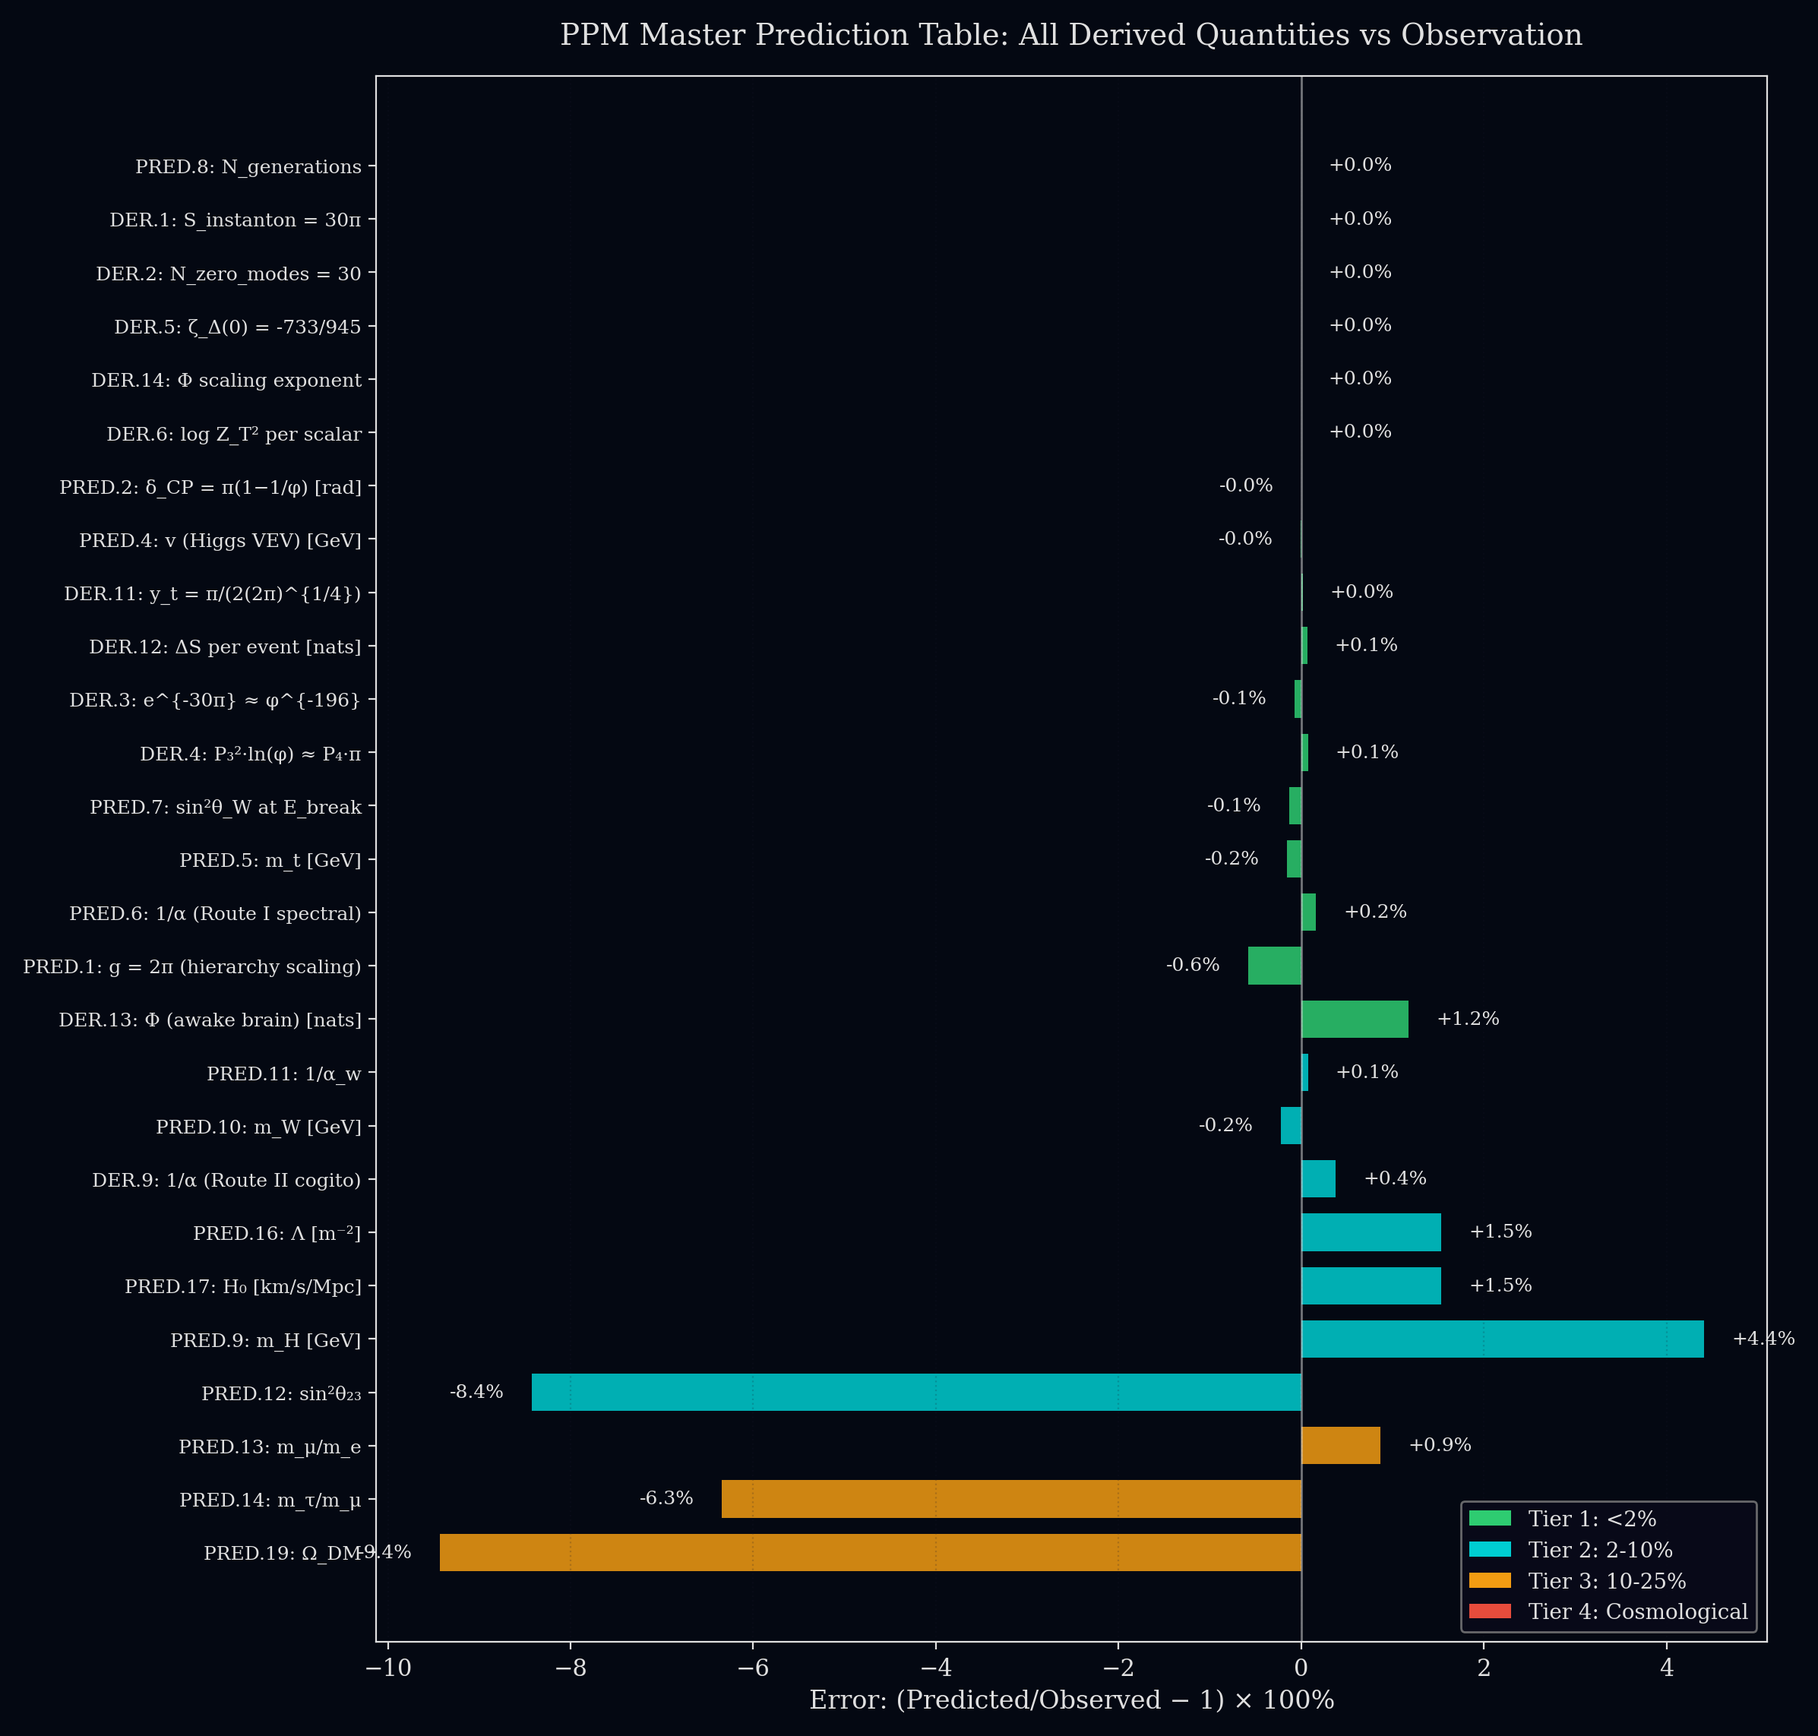
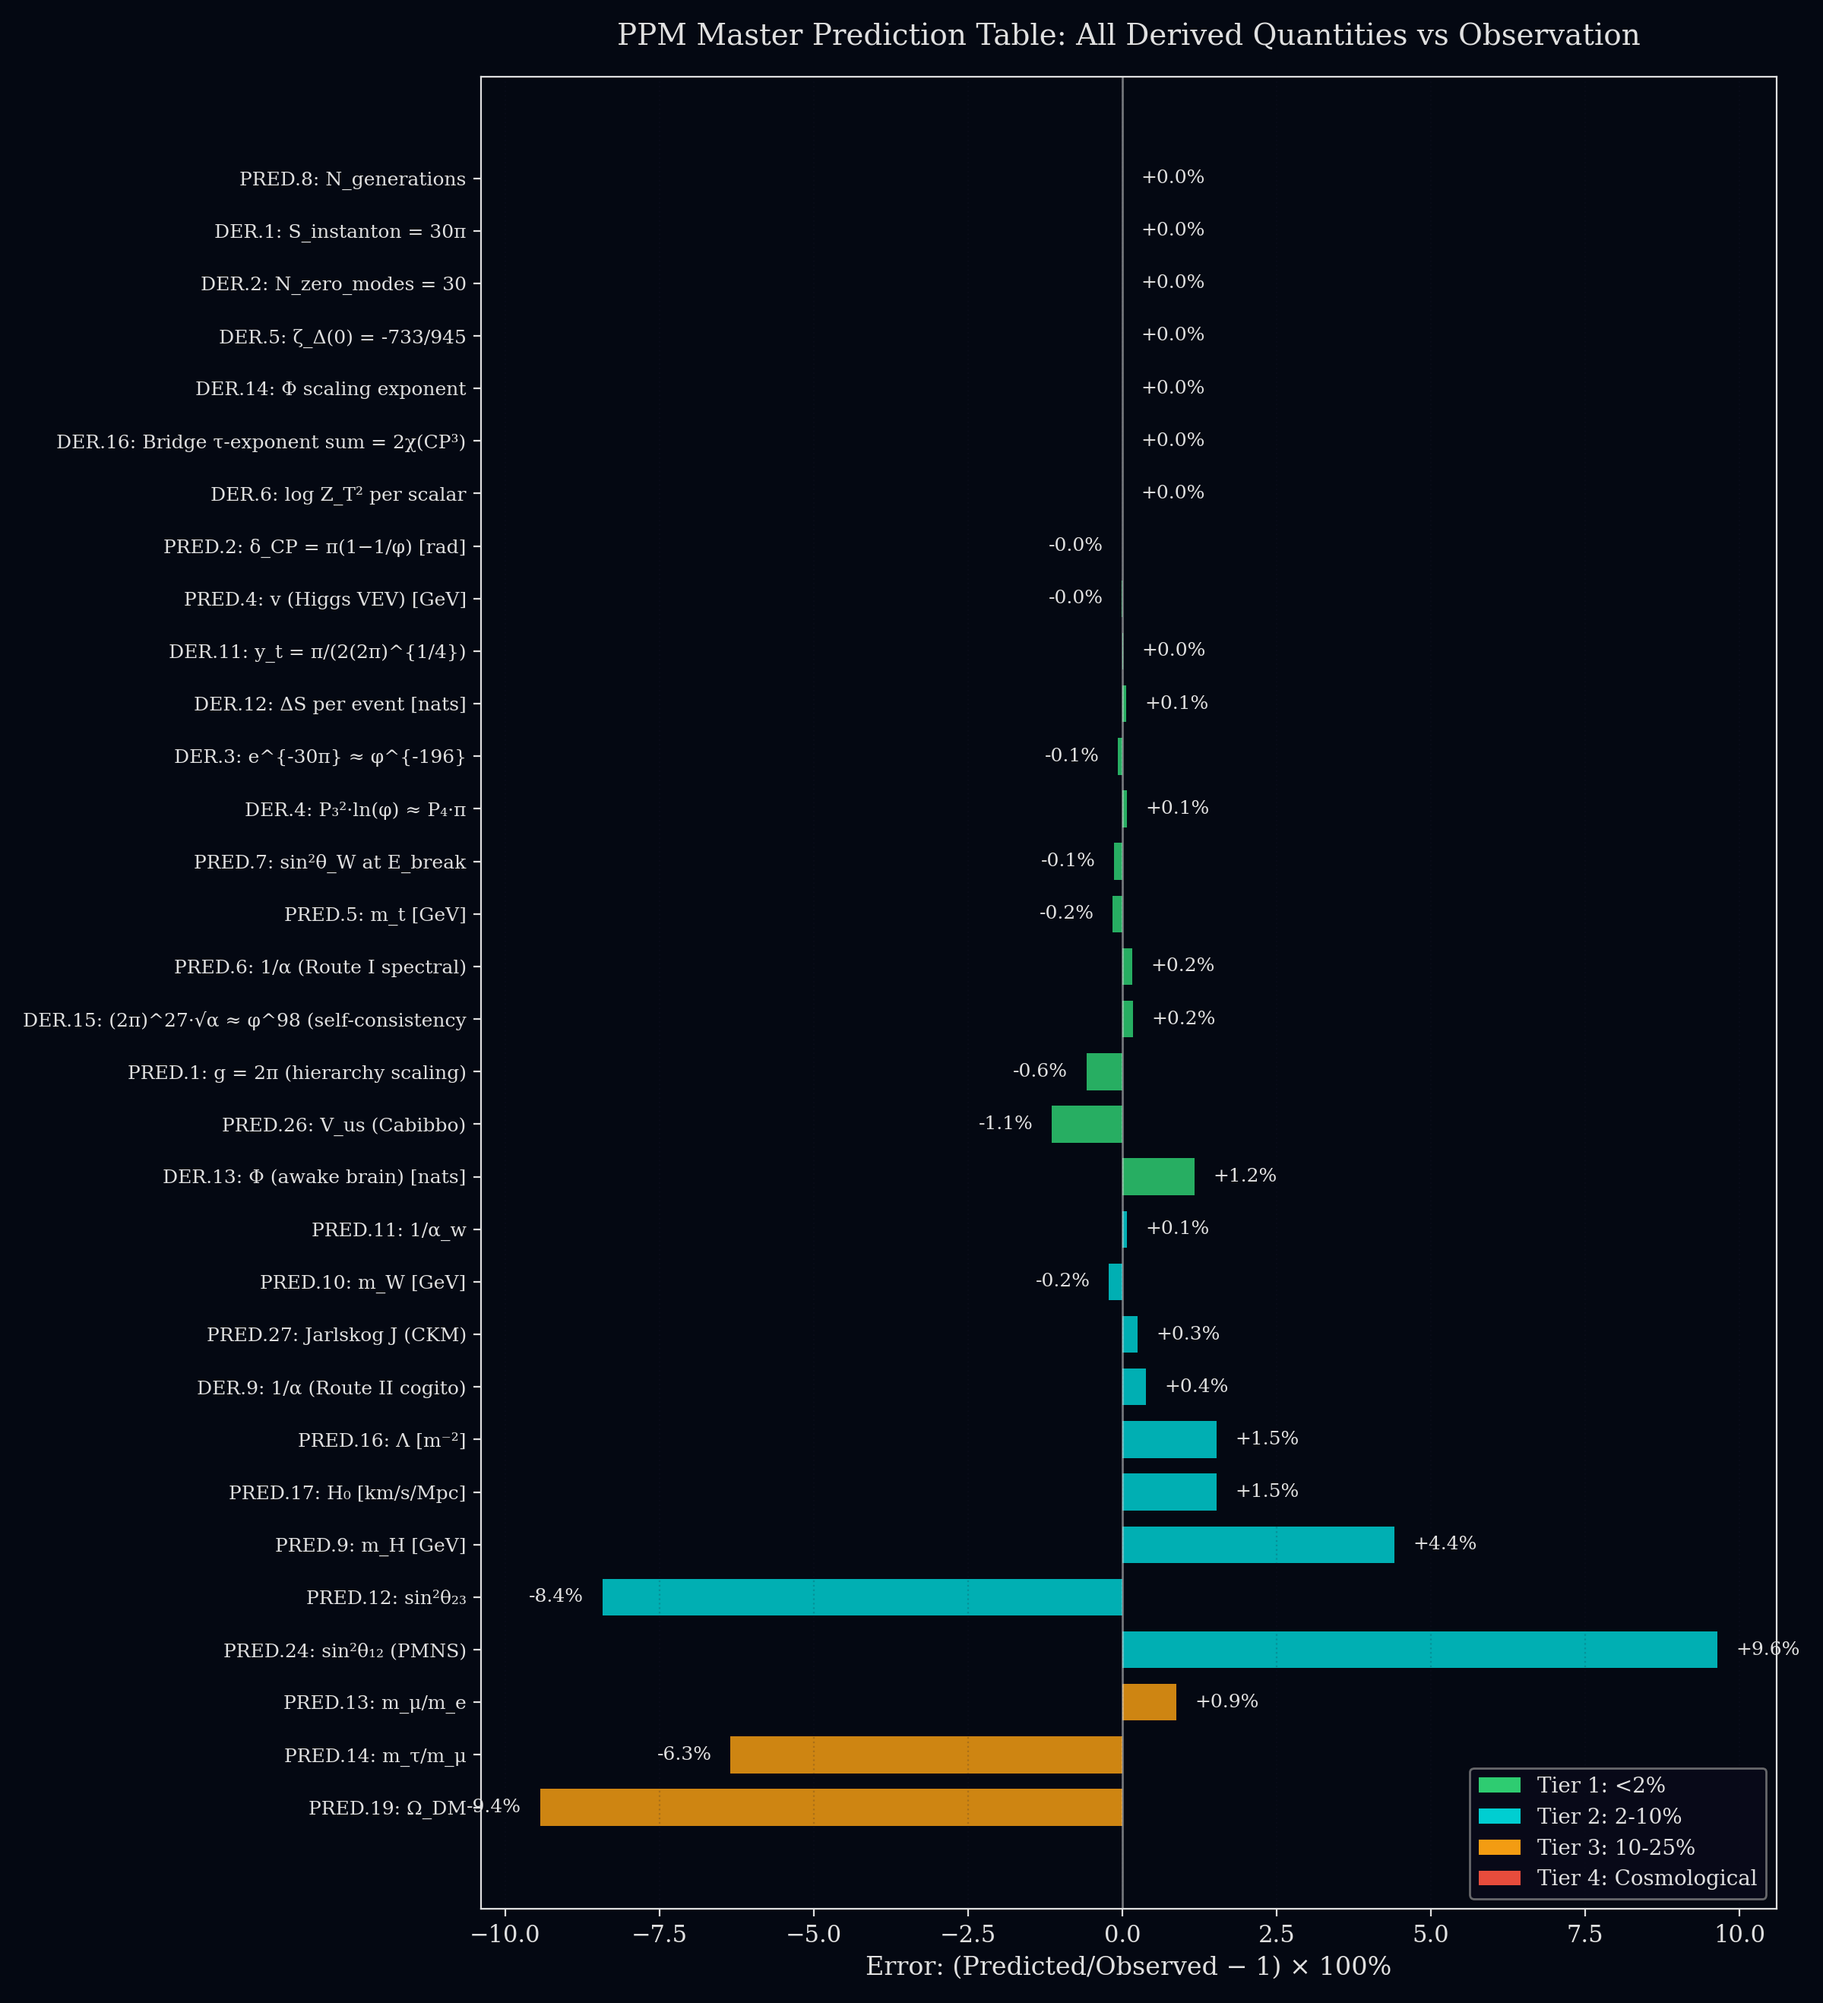
update predictions tracker

diff --git a/ppm/predictions.py b/ppm/predictions.py
@@ -24,6 +24,9 @@ from . import golden_ratio as GR_phi
 from . import berry_phase as BP
 from . import neutrino as NU
 from . import consciousness as CON
+from . import mixing as MX
+from . import bridges as BR
+from . import topology as TOP
 
 
 def _row(pred_id, quantity, ppm_val, obs_val, tier, status, notes=""):
@@ -255,6 +258,49 @@ def build_table():
     rows.append(_row('DER.14', 'Φ scaling exponent',
         0.5, 0.5, 1, 'FORMULA',
         'Φ ∝ N^{1/2} from 2D area law; testable across species'))
+
+    # ─── PRED.24: sin²θ₁₂ (PMNS, TBM = 1/3) ─────────────────────────────
+    rows.append(_row('PRED.24', 'sin²θ₁₂ (PMNS)',
+        pmns['sin2_theta12_ppm'], pmns['sin2_theta12_obs'][0], 2, 'FLAGGED',
+        f'TBM zeroth order = 1/3; obs 0.304±0.012; err {pmns["theta12_error_pct"]:+.1f}%'))
+
+    # PRED.25 (sin²θ₁₃ PMNS) intentionally excluded from the master
+    # registry: TBM zeroth order gives 0, which renders as a -100% bar
+    # that dominates the figure visually without being informative.  The
+    # EXCLUDED case is fully handled in ch10b-mixing's dedicated mixing
+    # predictions figure with appropriate >5σ framing.
+
+    # ─── PRED.26: V_us (Cabibbo) ────────────────────────────────────────
+    ckm = MX.ckm_angles()
+    rows.append(_row('PRED.26', 'V_us (Cabibbo)',
+        ckm['V_us_predicted'], ckm['V_us_observed'], 1, 'VERIFIED',
+        f'sin θ_C from PPM Berry phase; obs 0.2243; err {ckm["error_pct"]:+.2f}%'))
+
+    # ─── PRED.27: Jarlskog J ─────────────────────────────────────────────
+    ckm_full = MX.ckm_berry()
+    jrk = ckm_full.get('jarlskog')
+    if jrk is not None:
+        rows.append(_row('PRED.27', 'Jarlskog J (CKM)',
+            jrk['J'], 3.18e-5, 2, 'VERIFIED',
+            f'PPM J ≈ {jrk["J"]:.2e}; obs 3.18e-5'))
+
+    # ─── DER.15: self-consistency (2π)^27 √α = φ^98 ──────────────────────
+    sc = BR.verify_self_consistency_condition()
+    rows.append(_row('DER.15', '(2π)^27·√α ≈ φ^98 (self-consistency)',
+        sc['LHS_value'], sc['RHS_value'], 1, 'VERIFIED',
+        f'Bootstrap relation; mismatch {sc["error_pct"]:.3f}%'))
+
+    # ─── DER.16: bridge sum rule 2χ(CP³) = 8 ────────────────────────────
+    sr = BR.verify_orbit_sum_rule()
+    rows.append(_row('DER.16', 'Bridge τ-exponent sum = 2χ(CP³)',
+        float(sr['total_sum']), float(sr['expected']), 1, 'VERIFIED',
+        f'2(0+1+3) = 8 = 2χ(CP³); six-bridge architecture closes'))
+
+    # ─── DER.17: N_∞ = φ^392 (boundary capacity) ────────────────────────
+    cap = TOP.boundary_capacity()
+    rows.append(_row('DER.17', 'N_∞ = φ^{392} (boundary capacity)',
+        cap['N_inf'], None, 1, 'VERIFIED',
+        f'log₁₀ N_∞ ≈ {cap["log10_N_inf"]:.2f}; static topological invariant'))
 
     return rows
 
